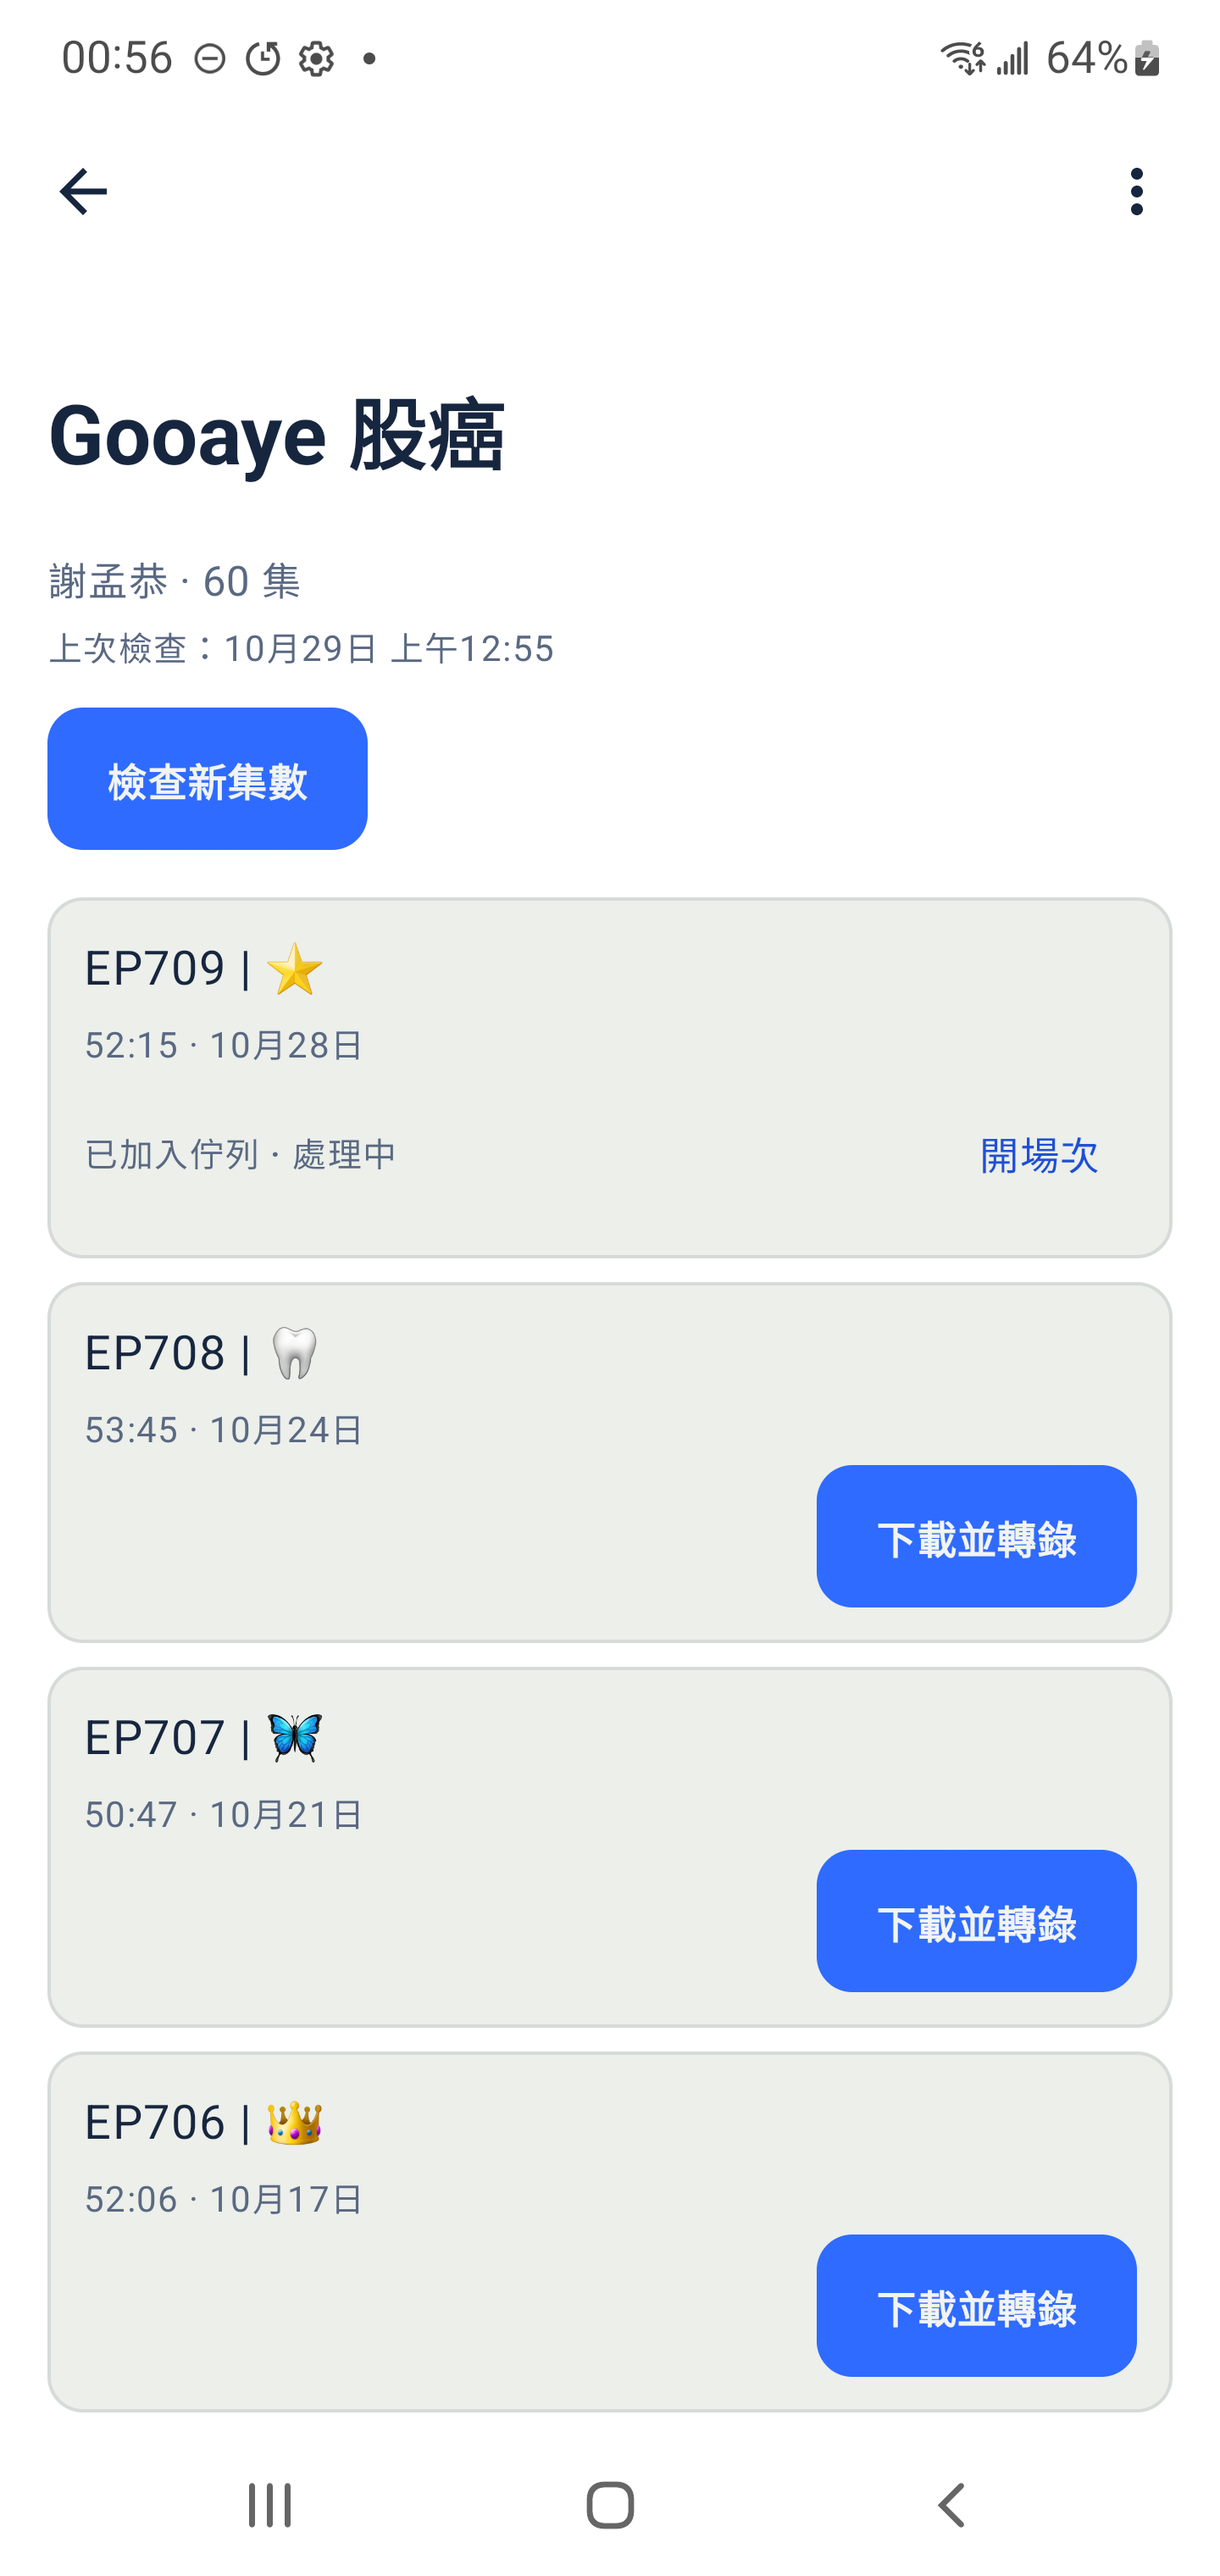
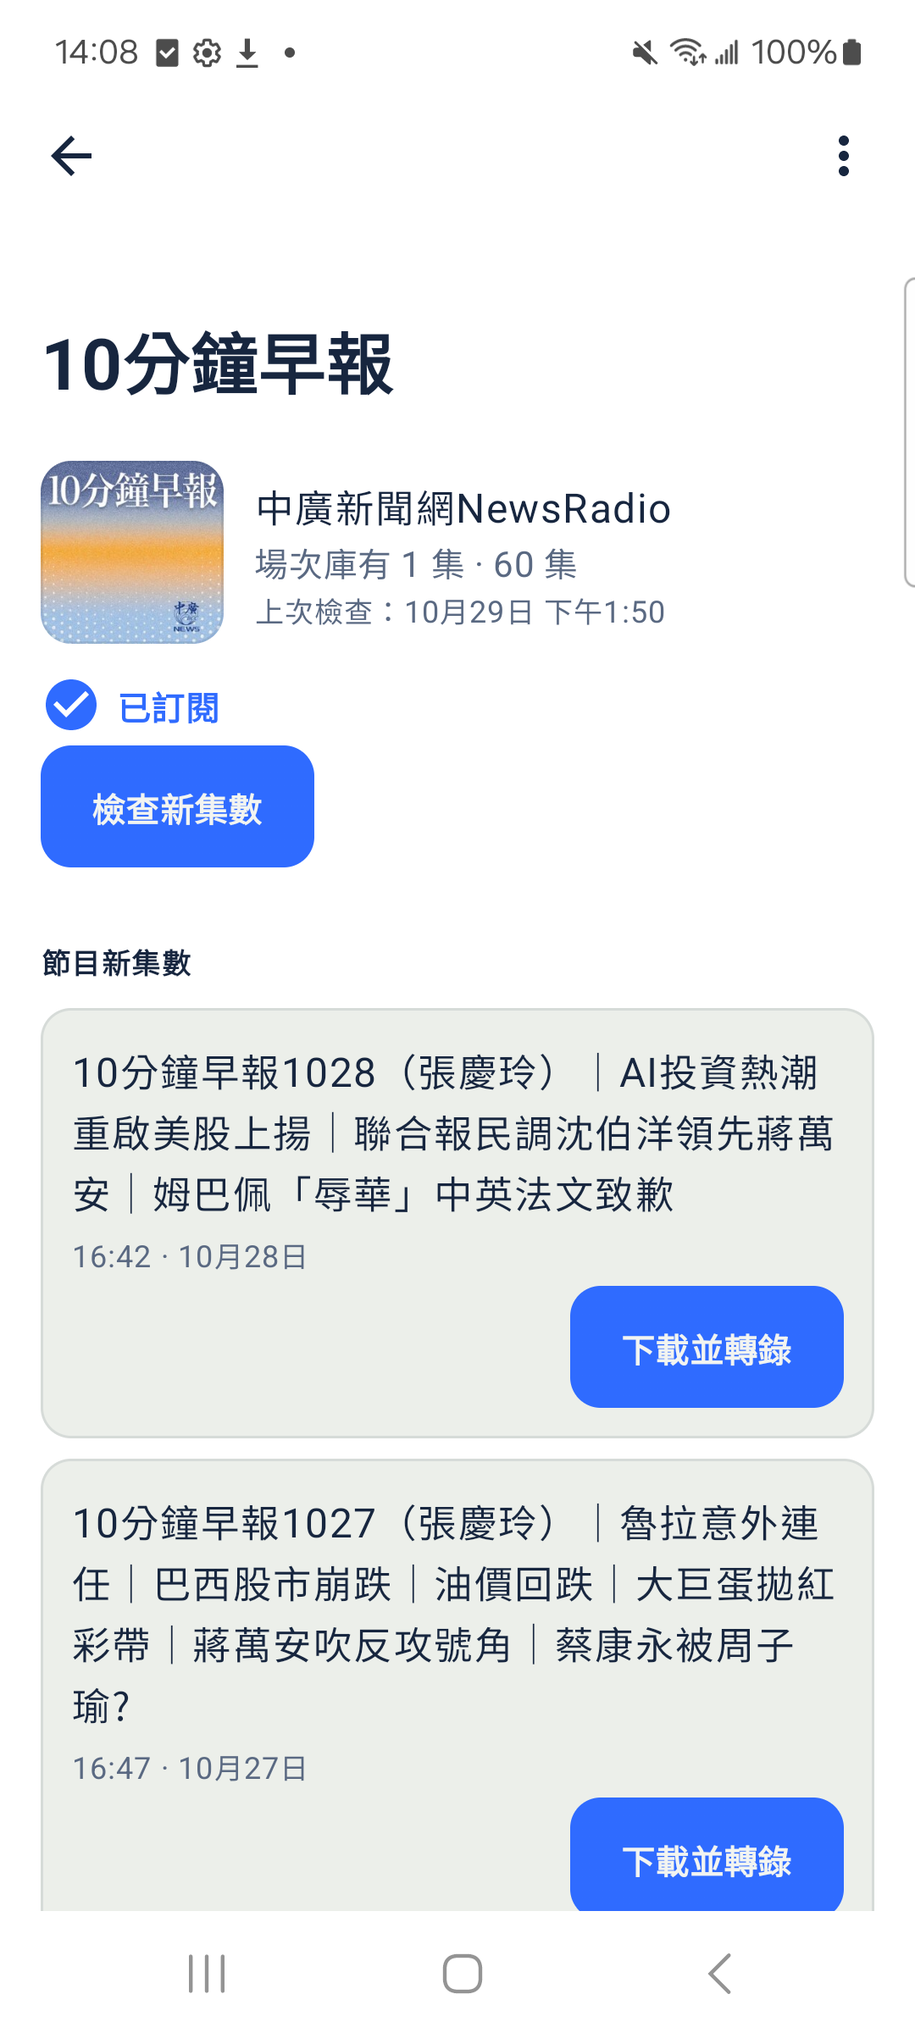
release: Android 0.55.0 (versionCode 201); guide reshot for library by source
- versionCode 201, versionName 0.55.0.
- USER_GUIDE: source chips (All / Meetings / Podcasts / Received), channel page,
  Share meeting (.pmin) and receiving it, first-use notice, licenses.
- Guide shots reshot on the Galaxy A53 (test app, demo content): 01 library,
  02 row menu (Share meeting), 07 Add sheet (no YouTube/PeerTube), 08 podcast,
  43 shows, 44 channel page; new 50 podcast filter, 51 licenses,
  52 text-only share, 54 online notice.

Unit tests 527/527 PASS; assembleDebug 0.55.0 smoke-launched on the A53.

diff --git a/docs/USER_GUIDE.md b/docs/USER_GUIDE.md
@@ -50,7 +50,7 @@ flowchart TD
 
 <img src="guide/01-library.png" width="270" alt="首頁">
 
-所有錄音與匯入的場次依日期分組列在這裡（還沒有場次時，會說明第一次錄音要下載多少模型，建議使用 Wi‑Fi）。沒有偵測到說話的錄音（靜音、只有雜音）以麥克風關閉圖示與「未偵測到語音」標示：可以開啟與刪除，但不寫 AI 筆記，也不列在「已完成」。上方可搜尋標題，右側的 **提問** 向會議提問（第 1a 節）；有「新」場次（尚未處理）時會出現篩選晶片。底部的 **錄音** 開始一場新會議；有尚未處理的錄音時，上方會多一個 **處理待辦（N）**。
+所有錄音與匯入的場次依日期分組列在這裡（還沒有場次時，會說明第一次錄音要下載多少模型，建議使用 Wi‑Fi）。沒有偵測到說話的錄音（靜音、只有雜音）以麥克風關閉圖示與「未偵測到語音」標示：可以開啟與刪除，但不寫 AI 筆記，也不列在「已完成」。上方可搜尋標題，右側的 **提問** 向會議提問（第 1a 節）。場次庫有兩種以上來源時，搜尋框下方出現依來源篩選的晶片：**全部／會議／Podcast／收到的**；Podcast 單集的列顯示節目封面與「節目 · 日期 · 長度」，別人分享來的會議標示 **收到的**。底部的 **錄音** 開始一場新會議；有尚未處理的錄音時，上方會多一個 **處理待辦（N）**。
 
 | 節點 | 如何到達 | 預期結果 | 驗證 |
 |---|---|---|---|
@@ -58,7 +58,8 @@ flowchart TD
 | 依語意搜尋 — 下載模型 | 搜尋模型未下載時，搜尋框下方 | 下載約 160 MB 後，閒置時為既有會議建立索引（「正在建立索引…」） | ✅ 手動 |
 | 提問 | 搜尋框右側；AI 筆記模型與搜尋模型都已下載時出現（設定 › 向會議提問，預設開啟） | 搜尋框有文字時直接提問，空白時開啟提問面板（第 1a 節） | ✅ 手動（Note 10+） |
 | 未偵測到語音 | 沒有說話的錄音處理完後 | 麥克風關閉圖示；不列在「已完成」篩選；點開可看錄音 | ✅ 手動（Note 10+） |
-| 篩選晶片 全部／新／已完成 | 有「新」場次時出現 | 只列出該狀態的場次；全部已完成時晶片不顯示 | ✅ 手動 |
+| 來源晶片 全部／會議／Podcast／收到的 | 場次庫有兩種以上來源時出現 | 只列出該來源的場次；選 Podcast 時單集依節目分組，點節目標題開啟節目頁（第 4a 節） | ✅ 手動（Galaxy A53） |
+| 篩選晶片 新／已完成 | 有「新」場次時出現，在來源之內篩選 | 只列出該狀態的場次；全部已完成時晶片不顯示 | ✅ 手動 |
 | 點場次（已完成） | 點一列 | 開啟場次（第 6 節） | ✅ 手動 |
 | 點場次（處理中） | 點正在處理的一列 | 即時查看處理進度：狀態列右側顯示硬體狀態列，逐字稿與 AI 筆記隨處理出現，音訊可同時播放 | ✅ 手動 |
 | 點場次（下載中） | 點 Podcast 下載中的一列 | 開啟該場次：下載卡片顯示進度（百分比與已下載量）、「已暫停」或失敗原因，可「立即繼續」「重試」或「刪除」（連同已下載的部分）；下載完成後同一畫面接著顯示處理進度 | ✅ 手動（Note 10+） |
@@ -105,7 +106,7 @@ flowchart TD
 
 ## 2. 場次 ⋮ 選單
 
-<img src="guide/02-row-menu.png" width="270" alt="場次選單"> <img src="guide/03-swipe-delete.png" width="270" alt="左滑刪除與復原">
+<img src="guide/02-row-menu.png" width="270" alt="場次選單"> <img src="guide/03-swipe-delete.png" width="270" alt="左滑刪除與復原"> <img src="guide/52-share-text-only.png" width="270" alt="Podcast 場次：不附音訊分享？">
 
 每列右側的 **⋮** 依場次狀態提供不同操作。
 
@@ -113,6 +114,7 @@ flowchart TD
 |---|---|---|---|
 | 開啟 | 已完成 | 開啟場次 | ✅ 手動 |
 | 重新命名 | 一律 | 對話框輸入新標題，確定後列上標題更新（新場次的預設標題為日期時間，如「10月6日 00:11」，摘要完成後換成 AI 擬的標題） | ✅ 手動 |
+| 分享會議 | 已完成 | 把整場會議（音訊、逐字稿、摘要、AI 筆記與你的修改）存成 `.pmin` 檔，透過系統分享面板送出（例如 Quick Share，或傳到 iPhone）；對方用 Prime Minutes 開啟後直接還原，不需模型、不必重新處理 | ✅ 手動（Note 10+ → Galaxy A53） |
 | 分享音訊 | 一律 | 系統分享面板，附 `.m4a` | ✅ 手動 |
 | 分享會議（線上來源） | 來自 Podcast 等線上來源的場次 | 先問「不附音訊分享？」：預設「只分享文字」（逐字稿與摘要的 .txt），也可選「附上音訊」 | ✅ 手動（Note 10+） |
 | 刪除（或在列上向左滑） | 一律 | 立即從清單移除，底部顯示「已刪除「…」」與 **復原**；幾秒內點復原即放回原處，否則才真正刪除 | ✅ 手動（Note 10+） |
@@ -141,7 +143,7 @@ flowchart TD
 
 ## 4. 加入音訊
 
-<img src="guide/07-add-source.png" width="270" alt="加入音訊"> <img src="guide/08-podcast.png" width="270" alt="Podcast">
+<img src="guide/07-add-source.png" width="270" alt="加入音訊"> <img src="guide/54-online-notice.png" width="270" alt="匯入前請留意"> <img src="guide/08-podcast.png" width="270" alt="Podcast">
 
 處理事先錄好的音訊。也可以從其他 App 把音訊「分享」給 Prime Minutes。
 
@@ -154,6 +156,7 @@ flowchart TD
 | YouTube／PeerTube 連結 | 其他 App 把 YouTube 或 PeerTube 連結傳給 Prime Minutes（Prime Minutes 不在文字的分享選單中，一般不會發生） | 不再匯入：顯示「不支援影片連結」說明。舊版排入但尚未下載的影片會標示「已不再支援匯入 YouTube 與 PeerTube」，可刪除；已轉錄的場次不受影響 | ✅ 手動（Note 10+） |
 | 第一次線上匯入 | 第一次按 ＋ → Podcast 或 節目 | 先顯示「匯入前請留意」：僅供個人使用、須自行確認有權下載與轉錄、遵守發布者條款；按「我了解」後不再出現 | ✅ 手動（Note 10+） |
 | 開啟場次（.ogg / .m4a） | ＋ → 開啟場次 | 開啟先前匯出的 Prime Minutes 檔，含逐字稿與摘要 | ✅ 手動、✅ 自動（AddSourceSheetTest） |
+| 收到的會議（.pmin） | 在 Quick Share、檔案管理（例如 Samsung「我的檔案」）或其他 App 點 `.pmin` 檔 | 開啟 Prime Minutes 並還原整場會議，列在「收到的」，提示「會議已存入 Prime Minutes，可以刪除「下載」中的原始檔案。」；資料庫已有同一場時詢問「開啟現有的」或「保留副本」 | ✅ 手動（Galaxy A53） |
 | 從其他 App 分享 | 其他 App → 分享 → Prime Minutes | 閒置時直接轉錄；處理中時詢問「匯入這個檔案？」（匯入會中斷處理） | ✅ 手動 |
 | Podcast 下載中斷線 | 下載單集音訊時網路中斷 | 不當成失敗：該列與場次畫面顯示「下載已暫停 · 會自動繼續」；網路恢復、回到 App 或按「立即繼續」後從中斷處接續，下載完成後照常轉錄 | ✅ 手動（Note 10+，Podcast：下載中切斷 Wi‑Fi 與行動數據 → 暫停、已下載部分保留 → 恢復後接續） |
 | Podcast 下載失敗 | 來源無法下載（例如已下架） | 該列標示「下載失敗：原因」（紅色），保留在首頁；點開後可「重試」或「刪除」 | ✅ 自動（DownloadItemTest），實機未確認 |
@@ -163,7 +166,7 @@ flowchart TD
 
 ### 4a. Podcast 訂閱（節目）
 
-<img src="guide/43-subs-list.png" width="270" alt="節目清單"> <img src="guide/44-subs-show.png" width="270" alt="節目頁">
+<img src="guide/43-subs-list.png" width="270" alt="節目清單"> <img src="guide/44-subs-show.png" width="270" alt="節目頁"> <img src="guide/50-podcast-filter.png" width="270" alt="首頁的 Podcast 篩選：單集依節目分組">
 
 **訂閱＝儲存節目連結，不付費、無背景連線。** App 不會在背景自動檢查或下載；新集數只在你按「檢查新集數」／「全部檢查」，或打開超過 24 小時沒檢查的節目頁時才去抓（一次一個 RSS 請求）。取得的單集走與上面「Podcast → 轉錄」完全相同的下載與轉錄流程。
 
@@ -172,7 +175,7 @@ flowchart TD
 | 訂閱此節目 | ＋ → Podcast → 搜尋 → 點節目 → 「訂閱此節目」 | 寫入訂閱；目前 feed 裡的單集全部記為「已看過」，不會一次下載舊集；按鈕改成「已訂閱」，點它開節目頁 | ✅ 手動（Note 10+）、✅ 自動（SubscriptionsTest） |
 | 貼上 RSS 連結 | ＋ → Podcast →「貼上 RSS 連結」，或節目清單右上角連結圖示 | 剪貼簿有網址時自動帶入；「預覽」顯示節目名稱與集數 →「訂閱此節目」 | ✅ 手動（Note 10+，`vox_sub_feed`） |
 | 節目清單 | ＋ → 節目 | 每個訂閱一列：節目名稱、出演者、「N 集 · 上次檢查」或「已暫停 · 不會檢查新集數」；有新集時顯示「N 集新」徽章；右上角「全部檢查」略過暫停中的節目 | ✅ 手動（Note 10+） |
-| 節目頁 | 節目清單 → 點一列 | 出演者 · 集數、上次檢查時間、「檢查新集數」；單集最新在前（長度 · 發表日），各集顯示「新集」、「已加入佇列 · 處理中」、下載進度或「已匯入」＋「開場次」 | ✅ 手動（Note 10+） |
+| 節目頁 | 節目清單 → 點一列，或首頁 Podcast 篩選中點節目標題 | 封面、出演者、「場次庫有 N 集 · M 集」、上次檢查時間、「訂閱／已訂閱」與「檢查新集數」；先列「節目新集數」（還不在場次庫的單集，最新在前，可「下載並轉錄」），再列「在場次庫」的單集。沒訂閱的節目也能開 | ✅ 手動（Note 10+、Galaxy A53） |
 | 下載並轉錄 | 節目頁 → 某集「下載並轉錄」 | 首頁立刻出現這一集並下載、轉錄；同一集再按一次不會產生第二列，而是提示「已在場次庫 · 開啟該場次」 | ✅ 手動（Note 10+，重複提交只得一列） |
 | 空間不足 | 可用空間不足以放下這一集（約檔案 3 倍＋200 MB） | 不下載，提示「空間不足 · 等待空間」；下載途中磁碟寫滿時該列顯示同一句並暫停（保留已下載部分），有空間後自動接續，不標為失敗 | ✅ 手動（Note 10+，`vox_sub_lowspace` 模擬）、✅ 自動（以錯誤訊息判斷，網路錯誤不誤判） |
 | 暫停／繼續訂閱、分享、刪除 | 節目清單長按一列，或節目頁右上角 ⋮ | 暫停後「全部檢查」略過它（節目頁手動檢查仍可用）；分享送出「節目名稱 — RSS 連結」；刪除後可在提示列「復原」，已下載的場次保留 | ✅ 手動（Note 10+，暫停後全部檢查略過） |
@@ -331,7 +334,7 @@ flowchart TD
 | 關於：檢查更新、GitHub | 顯示「已是最新版本」或更新橫幅 | ✅ 手動（檢查更新）、✅ 自動（SettingsContentTest，版本號） |
 | 關於：開放原始碼授權 | 列出 App 內含的第三方元件與授權（與 NOTICE 相同），點一列開啟該專案 | ✅ 手動（Note 10+） |
 
-<img src="guide/28-model-delete.png" width="270" alt="刪除模型確認">
+<img src="guide/28-model-delete.png" width="270" alt="刪除模型確認"> <img src="guide/51-licenses.png" width="270" alt="開放原始碼授權">
 
 ## 9a. 說話者名錄
 
